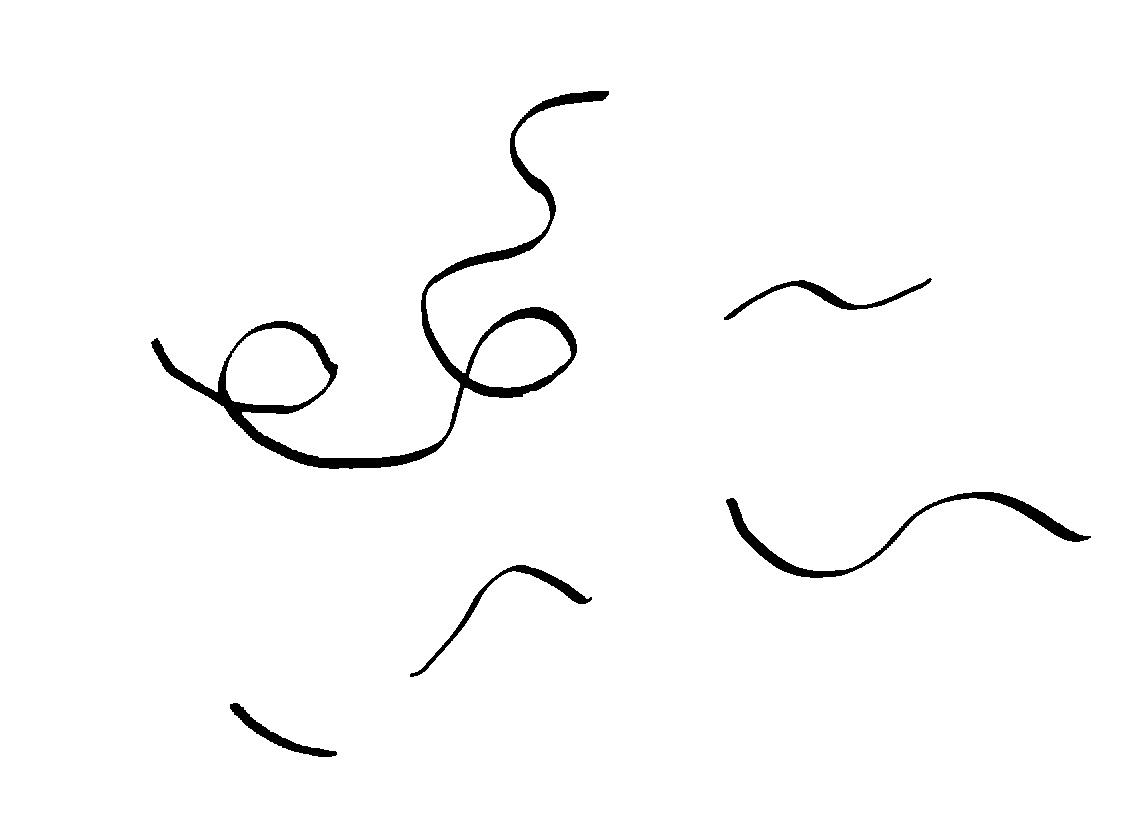
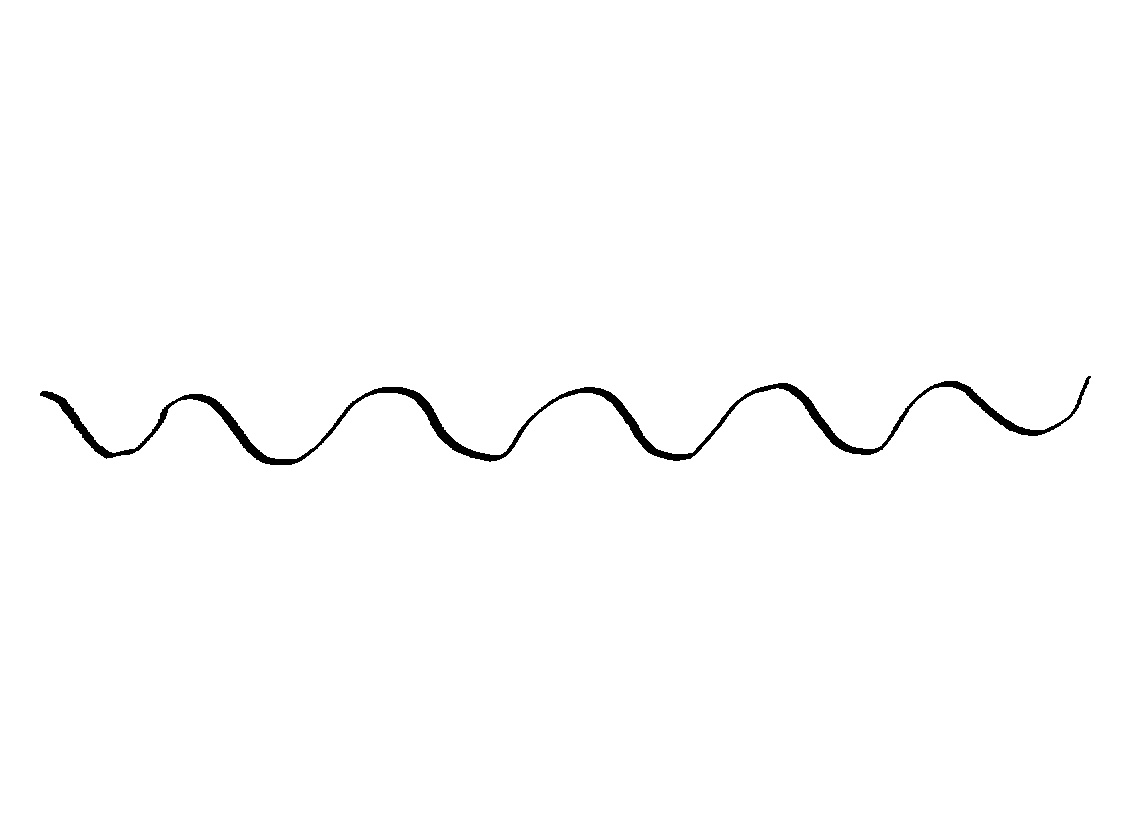
Fish fully integrated

diff --git a/src/featurePlotting.py b/src/featurePlotting.py
@@ -53,6 +53,38 @@ def arc(axi, x, y, rx, ry, thetaS, thetaE, raisePen):
         axi.penup()
 
 
+def convertDrawPoly(axi, pointsList, S, xc, yc):
+    axi.moveto(pointsList[0]*S+xc, pointsList[1]*S+yc)
+
+    for i in range(2, len(pointsList), 2):
+        axi.lineto(pointsList[i]*S+xc, pointsList[i+1]*S+yc)
+
+    axi.lineto(pointsList[0]*S+xc, pointsList[1]*S+yc)
+    axi.penup()
+
+
+
+
+#convert from PIL drawing convention to axi drawing convention
+
+def convertArc(x1, y1, x2, y2, r1, r2, S, xc, yc):
+    x1 = x1*S + xc
+    y1 = y1*S + yc
+    x2 = x2*S + xc
+    y2 = y2*S + yc
+
+    thetaS = math.radians(r1-90)
+    thetaE = math.radians(r2-90)
+
+    rx = (x2-x1)/2
+    ry = (y2-y1)/2
+    x = x1+rx
+    y = y1+ry
+
+    return [x, y, rx, ry, thetaS, thetaE]
+
+
+
 
 #Functions for drawing doodles
 
@@ -111,20 +143,14 @@ def striation(axi, endpoints, S, xc, yc):
 
 
 def lake(axi, desc, S, xc, yc):
-    [waveInfo, boatInfo] = desc
+    [waveInfo, boatInfo, fishInfo] = desc
     [startX, endX, y, waveD, waveNum] = waveInfo
-    [boatX, boatScale, sailDir] = boatInfo
 
     #convert to axi coordinates
     startX = startX*S+xc
     endX = endX*S+xc
     y = y*S+yc
     waveD*=S
-    
-    boatScale*=S
-    boatX = boatX*S+xc
-    boatY = y - boatScale/4
-
 
     #Draw lake
     axi.moveto(startX, y)
@@ -132,27 +158,45 @@ def lake(axi, desc, S, xc, yc):
 
     for i in range(waveNum-2):
         arc(axi, startX+waveD*i+waveD*1.5, y, waveD/2, waveD/2, np.pi*1.5, np.pi*2.5, False)
-        #arc(x*S+xc+waveD*i+waveD*1.5, (lineArr[endIdx][1]*(i/waveNum) + y*((waveNum-i)/waveNum))*S+yc, waveD/2, waveD/2, np.pi*1.5, np.pi*2.5, False)
 
     axi.moveto(endX-waveD, y)
     axi.lineto(endX, y)
 
 
     #Draw boat
-    arc(axi, boatX, boatY, boatScale, boatScale/2, np.pi*1.5, np.pi*2.5, True) 
-    axi.moveto(boatX-boatScale, boatY)
-    axi.lineto(boatX+boatScale, boatY)
+    if boatInfo != -1:
+        [boatX, boatScale, sailDir] = boatInfo
+        boatScale*=S
+        boatX = boatX*S+xc
+        boatY = y - boatScale/4
+        
+        arc(axi, boatX, boatY, boatScale, boatScale/2, np.pi*1.5, np.pi*2.5, True) 
+        axi.moveto(boatX-boatScale, boatY)
+        axi.lineto(boatX+boatScale, boatY)
 
-    if sailDir:
-        axi.moveto(boatX-boatScale/3, boatY)
-        axi.lineto(boatX-boatScale/3, boatY-(2*boatScale))
-        axi.lineto(boatX+(2/3)*boatScale, boatY)
-        axi.lineto(boatX-boatScale/3, boatY)
-    else:
-        axi.moveto(boatX+boatScale/3, boatY)
-        axi.lineto(boatX+boatScale/3, boatY-(2*boatScale))
-        axi.lineto(boatX-(2/3)*boatScale, boatY)
-        axi.lineto(boatX+boatScale/3, boatY)
+        if sailDir:
+            axi.moveto(boatX-boatScale/3, boatY)
+            axi.lineto(boatX-boatScale/3, boatY-(2*boatScale))
+            axi.lineto(boatX+(2/3)*boatScale, boatY)
+            axi.lineto(boatX-boatScale/3, boatY)
+        else:
+            axi.moveto(boatX+boatScale/3, boatY)
+            axi.lineto(boatX+boatScale/3, boatY-(2*boatScale))
+            axi.lineto(boatX-(2/3)*boatScale, boatY)
+            axi.lineto(boatX+boatScale/3, boatY)
+
+
+    #Draw fish
+    for fish in fishInfo:
+        [upperBody, lowerBody, tail] = fish
+        upperBodyArgs = convertArc(*upperBody, S, xc, yc)
+        lowerBodyArgs = convertArc(*lowerBody, S, xc, yc)
+
+        axi.penup()
+        arc(axi, *upperBodyArgs, False)
+        arc(axi, *lowerBodyArgs, False)
+        convertDrawPoly(axi, tail, S, xc, yc)
+
         
     axi.penup()
 

diff --git a/src/collaborator.py b/src/collaborator.py
@@ -34,7 +34,7 @@ yc = 58
 isDrawing = False  #True when the Axidraw is running
 isRunning = False  #True when runCollaboration thread is running
 
-useVid = False  # Choose whether to use camera or internal file for capture
+useVid = True  # Choose whether to use camera or internal file for capture
 useAxi = False  # For bugfixing while away from axidraw, program only works correctly with val is True
 
 
@@ -148,7 +148,7 @@ def plotReceipt(receipt):
     axi.moveto(0, 0)
                 
 
-def previewLandscape(draw, tracedLine, overhang):
+def previewSurface(draw, tracedLine, overhang):
     global isDrawing
     isDrawing = True
 
@@ -209,7 +209,26 @@ def previewLandscape(draw, tracedLine, overhang):
                     subReceipt.append(("L", lakeInfo))
 
     return subReceipt
+
+
+
+
+#ONGOING to be used to draw features that are not surface-depenedent (like bridges)
+def previewSky(draw, surfaceList):
+    for i in range(len(surfaceList)):
+        s1 = surfaceList[i]
+        [s1xL, s1yL] = s1[0]
+        [s1xR, s1yR] = s1[-1]
+        print(type(s1))
+        for j in range(i+1, len(surfaceList)):
+            s2 = surfaceList[j]
+            [s2xL, s2yL] = s2[0]
+            [s2xR, s2yR] = s2[-1]
+
             
+
+
+
 
 
 # Test to see if new surface detection is working
@@ -246,7 +265,9 @@ def runCollaboration(frame):
 
     # Runs imageConverter to get data about islands and surfaces in the drawn image
     islandList = imgc.main(frame)
-    print(len(islandList))
+    surfaceList = []
+    for island in islandList:
+        surfaceList.extend(island.surfaces)
 
     #setup preview image file
     greyscaleConvert = np.where(frame == 0, 255, 0).astype(np.uint8)
@@ -255,11 +276,12 @@ def runCollaboration(frame):
 
     #create preview image file and calculate features to be drawn
     receipt = []
+    #receipt.append(previewSky(draw, surfaceList))  #TODO impliment
     for island in islandList:
         for i in range(len(island.surfaces)):
             surface = island.surfaces[i]
             overhang = island.overhangs[i]
-            receipt.append(previewLandscape(draw, surface, overhang))
+            receipt.append(previewSurface(draw, surface, overhang))
     
     preview.save("./sampleImages_output/collaboration_preview.jpg")
 

diff --git a/src/previewDoodles.py b/src/previewDoodles.py
@@ -103,7 +103,7 @@ def drawFish(draw, x, y, fishLen, fishDir):
 
     draw.polygon(tail)
 
-    return (upperBody, lowerBody, tail)
+    return [upperBody, lowerBody, tail]
 
 
 def generateAllFish(draw, allDepths, fishProb, fishSize, fishDir, startX, startY):
@@ -118,6 +118,7 @@ def generateAllFish(draw, allDepths, fishProb, fishSize, fishDir, startX, startY
         return
     
     i = edgeBuffer
+    fishReceipt = []
     while i in range(edgeBuffer, lakeW - edgeBuffer):
         if allDepths[i] > 2*buffer + fishR and rand.random() < fishProb:
             xIdx = i
@@ -129,7 +130,7 @@ def generateAllFish(draw, allDepths, fishProb, fishSize, fishDir, startX, startY
 
             maxCurIdx = i
             while(minIdx <= xIdx < maxIdx and minY <= y < startY + (allDepths[xIdx] - edgeBuffer)):
-                drawFish(draw, xIdx+startX, y, fishSize, fishDir)
+                fishReceipt.append(drawFish(draw, xIdx+startX, y, fishSize, fishDir))
                 xStep = rand.randint(-stepSize, stepSize)
                 xIdx += xStep
                 yStepR = stepSize-xStep
@@ -139,6 +140,8 @@ def generateAllFish(draw, allDepths, fishProb, fishSize, fishDir, startX, startY
 
             i = maxCurIdx
         i += 1
+
+    return fishReceipt
 
 
 
@@ -154,8 +157,8 @@ def drawLakeFeatures(draw, lineArr, startIdx, x, y, waveLen, endIdx):
     draw.line([x, y, x+waveD, y])  #maybe remove?
 
     boatloc = int(rand.randrange(0, int((waveNum-2)*2)))
+    boatInfo = -1  #retains this value if no boat is drawn
     for i in range(waveNum-2):
-
         #draw a wave
         xminBound = x+waveD*(i+1)
         draw.arc([xminBound, y-waveD/2, xminBound+waveD, y+waveD/2], 0, 180, fill = 0)
@@ -224,7 +227,7 @@ def drawLake(draw, tracedLine, i, x, y, minLake, maxLake, waveLen):
     if endIdx != 0 and maxDetectedDepth >= minDepth:  #create a lake if in bounds and deep enough
         lakeInfo = drawLakeFeatures(draw, tracedLine, i, x, y, waveLen, endIdx)
 
-        generateAllFish(draw, allDepths, 0.05, 10, rand.choice([-1, 1]), x, y)
+        lakeInfo.append(generateAllFish(draw, allDepths, 0.01, 10, rand.choice([-1, 1]), x, y))
 
         return (endIdx, lakeInfo)
 
